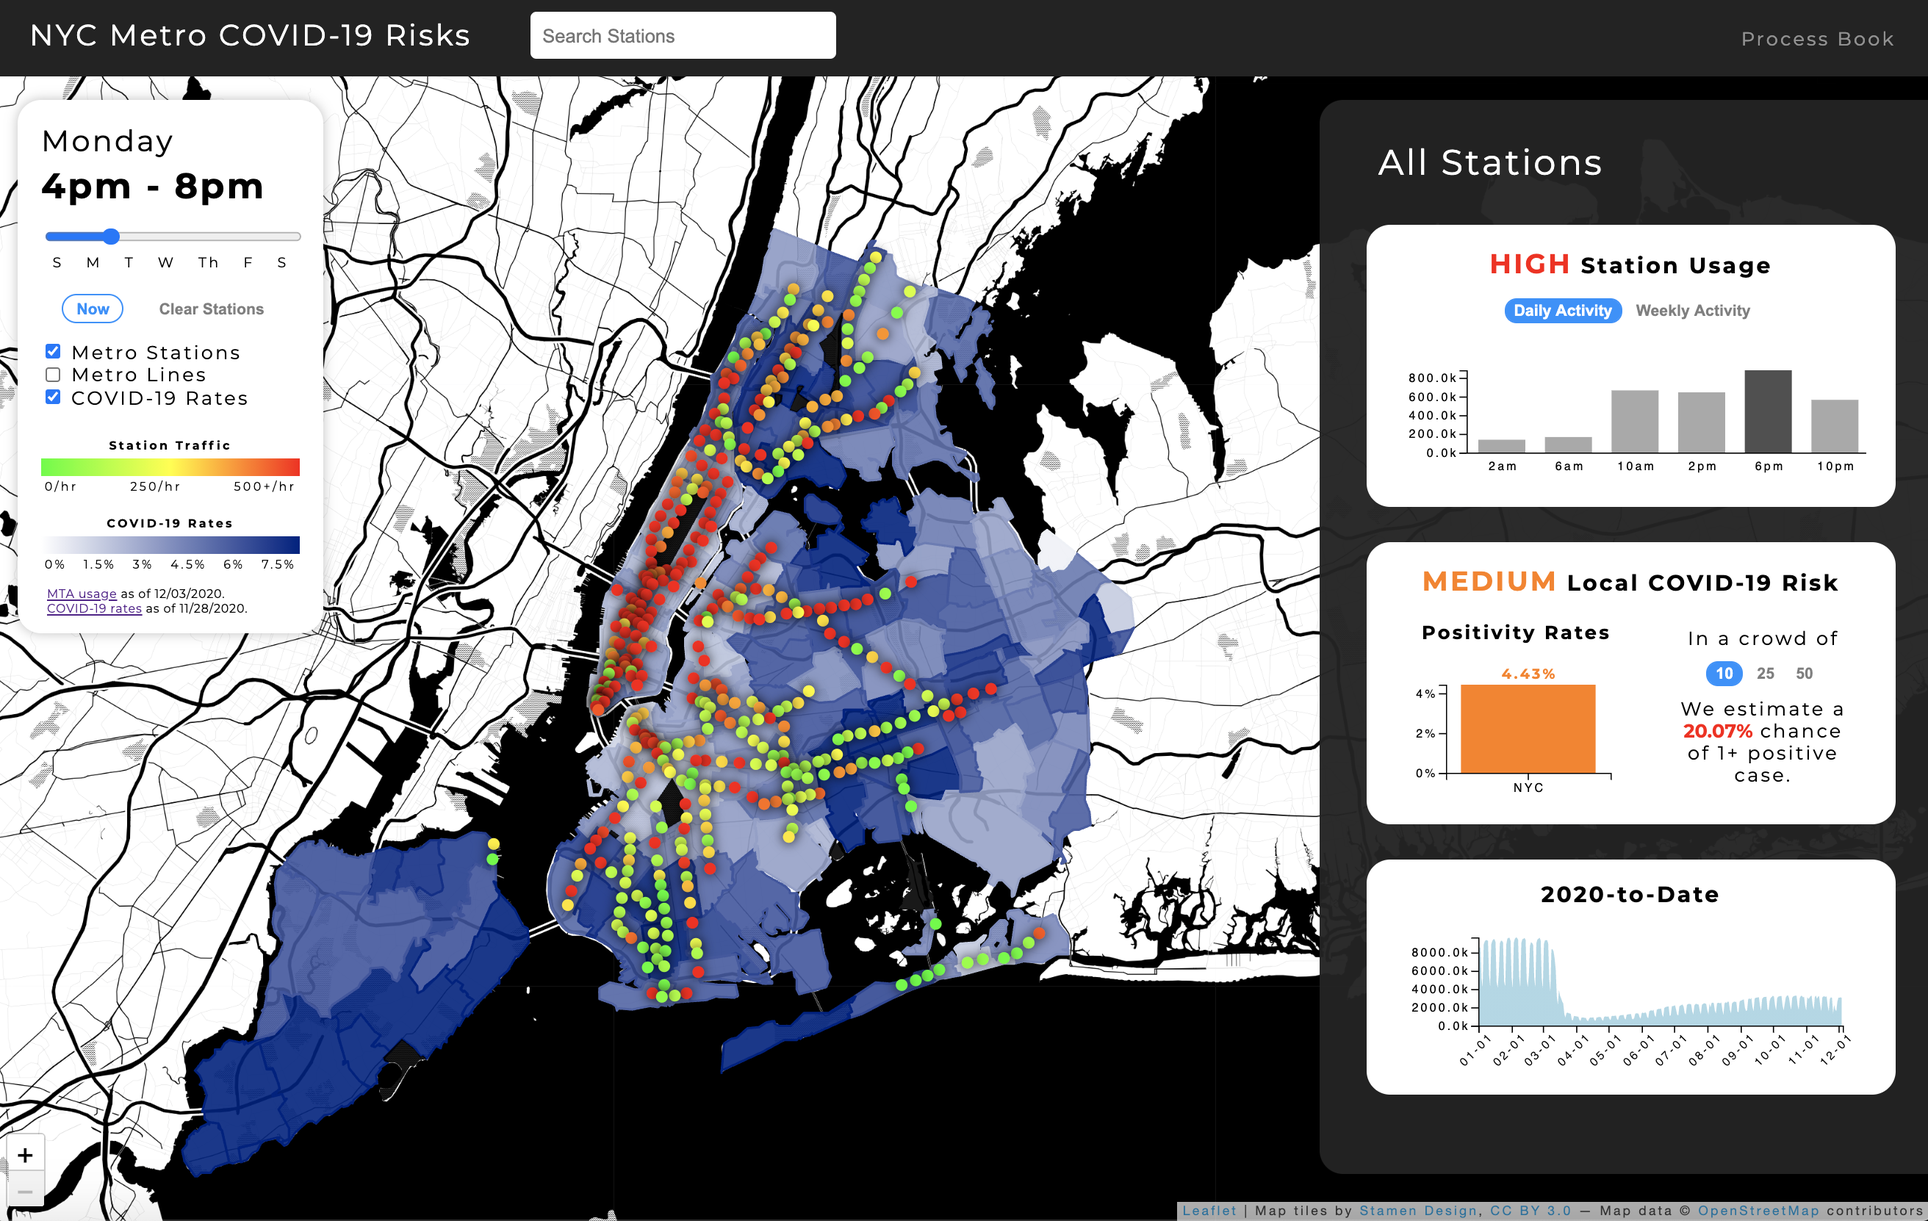
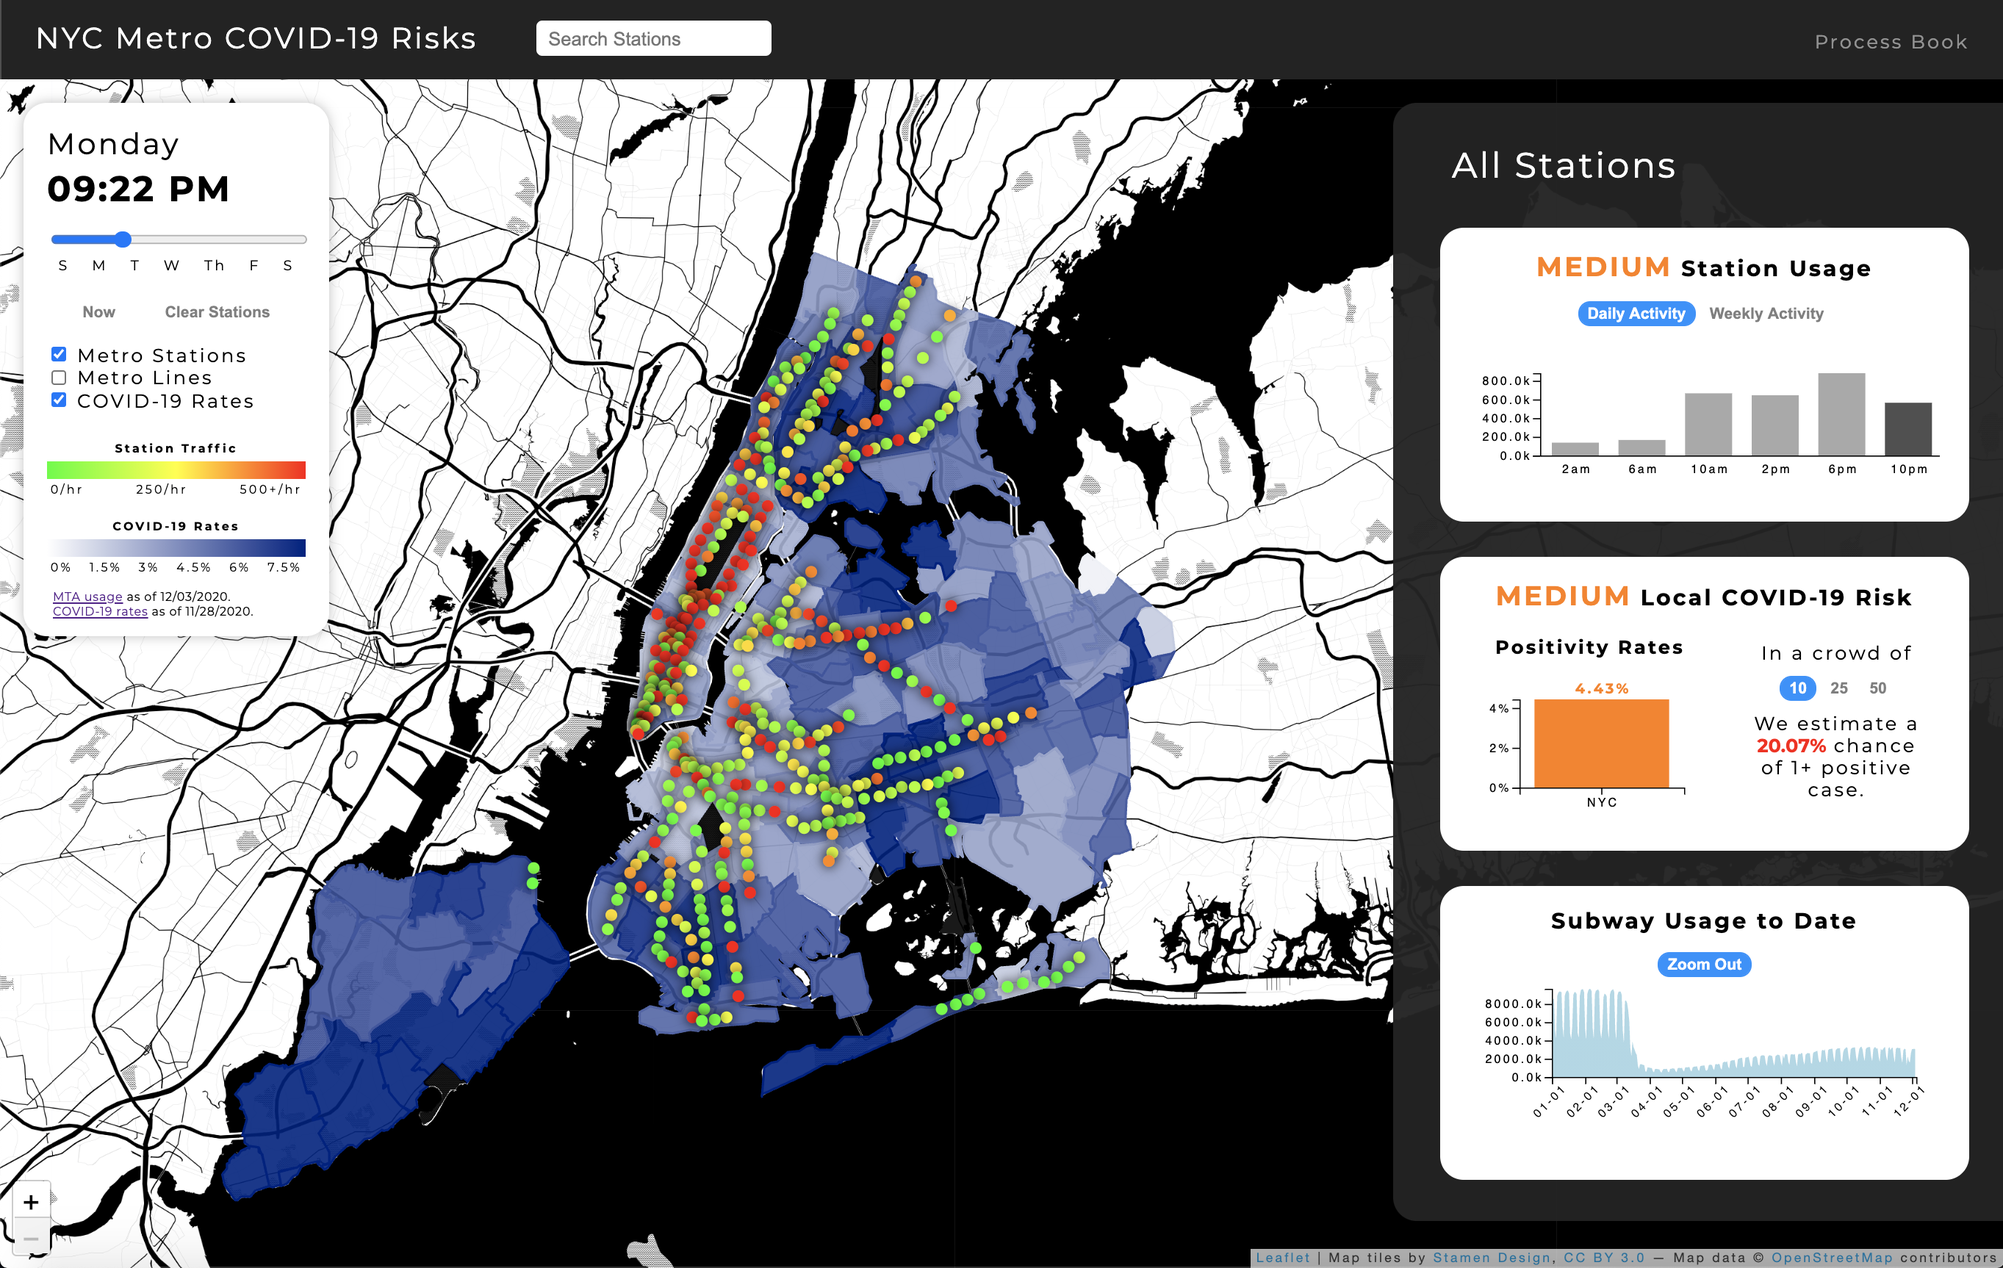
Milestone 2 process book rough draft

diff --git a/docs/processBook.html b/docs/processBook.html
@@ -14,19 +14,20 @@
     <h4>CSE 457A Final Project Process Book | Group 14</h4>
     <h1>LIVE NYC METRO USAGE & ASSOCIATED COVID RISKS.</h1>
     <hr>
+    <p><a href="https://washuvis.github.io/nyccovid/">Visualization</a></p>
+    <p><a href="https://github.com/washuvis/nyccovid">Github Repository</a></p>
     <p>Isaac Bock — <em>isaactbock@wustl.edu</em> - 466249</p>
     <p>Ege Çavuşoğlu — <em>egecavusoglu@wustl.edu</em> - 463866</p>
     <p>David Yang — <em>yang.david@wustl.edu</em> - 451666</p>
-    <a href="https://github.com/washuvis/nyccovid">Github Repository</a>
 
     <h2>OVERVIEW</h2><hr>
-    <p>We are interested in visualizing live (weekly) traffic data within the NYC metro system in order to promote safe and socially distant travel. Using turnstile entry and exit counts, we plan to display how busy each station tends to be throughout the day, and cross-reference this traffic with community-level COVID-19 data to estimate the risk of utilizing each NYC metro station.</p>
+    <p>We are interested in visualizing live (weekly) traffic data within the NYC metro system in order to promote safe and socially distant travel. Using turnstile entry and exit counts, we display how busy each station tends to be throughout the day, and cross-reference this traffic with community-level COVID-19 data to estimate the risk of utilizing each NYC metro station.</p>
     
     <h2>MOTIVATION & RELATED WORK</h2><hr>
     <p>Our project was inspired by a <a href="https://covid19risk.biosci.gatech.edu/">Georgia Tech visualization of crowd-based COVID-19 risks</a>. Given current infection rates, even small groups of people are likely to contain positive cases, with high variability based on crowd size and location.</p>
     <p>Although the Georgia Tech tool is effective at visualizing nation-wide trends, it lacks the specificity to shape local travel, which we wanted to expand upon and make more actionable for the general public.</p>
     <p>Following the in-class bike station Leaflet.js studio, we decided that mapping NYC metro stations with live usage data and COVID-19 risk calculations could be an effective way to encourage this safer essential travel.</p>
-    <p>To calculate these COVID-19 risk statistics, we plan to use the same <a href="https://www.nature.com/articles/s41562-020-01000-9/">simple statistical model</a> developed and used by Georgia Tech to analyze crowd risks:</p>
+    <p>To calculate these COVID-19 risk statistics, we plan use the same <a href="https://www.nature.com/articles/s41562-020-01000-9/">simple statistical model</a> as Georgia Tech to analyze crowd risks:</p>
     <ul>
         <li>"Let p denote the probability that a randomly selected individual in a focal population is infected. Hence, the probability that each of n individuals is not infected must be (1 − p)^n and by extension the probability that one (or more) individuals is infected must be 1 − (1 − p)^n; we define this as the event gathering risk."</li>
     </ul>
@@ -46,13 +47,12 @@
     <h3>SOURCES</h3>
     <ul>
         <li><a href="http://web.mta.info/developers/turnstile.html">NYC MTA Turnstile Entry & Exit Counts</a></li>
-        <li><a href="https://qri.cloud/nyc-transit-data/turnstile_daily_counts_2020">NYC MTA Turnstile Aggregate Entry & Exit Counts</a></li>
         <li><a href="https://github.com/nychealth/coronavirus-data/blob/master/trends/percentpositive-by-modzcta.csv">NYC COVID-19 Cases by Modified Zip Code Tabulation Area</a></li>
         <li><a href="https://data.cityofnewyork.us/Transportation/Subway-Lines/3qz8-muuu">NYC MTA Subway Lines</a></li>
         <li><a href="https://data.cityofnewyork.us/Health/Modified-Zip-Code-Tabulation-Areas-MODZCTA-/pri4-ifjk">NYC Modified Zip Code Tabulation Areas</a></li>
     </ul>
     <h3>CLEANING</h3>
-    <p>Raw data is processed within <em>nyccovid.py</em> to aggregate station values. The raw data is too large to include in our web app bundle, so we also filter out nonessential fields to minimize the file size. This cleaned data is saved within <em>metro.csv</em>. Our cleaning process draws from <a href="https://medium.com/qri-io/taming-the-mtas-unruly-turnstile-data-c945f5f96ba0">Taming the MTA’s Unruly Turnstile Data</a>, an article by Chris Whong that we used to generate our preliminary daily station count aggregates.</p>
+    <p>Raw data is processed within <em>dataProcessing.js</em> to aggregate daily and hourly station values. The raw data is too large to include in our web app bundle, so we also filter out nonessential fields to minimize the file size. This cleaned data is saved within <em>metroHourly.json</em> and <em>metroDaily.json</em>. Our cleaning process draws from <a href="https://medium.com/qri-io/taming-the-mtas-unruly-turnstile-data-c945f5f96ba0">Taming the MTA’s Unruly Turnstile Data</a>, an article by Chris Whong that describes the initial data fields and how they can be simplified.</p>
 
 
     <h2>EXPLORATORY DATA ANALYSIS</h2><hr>
@@ -62,7 +62,7 @@
         <li><a href="http://arettines.com/MTA-Graphic">Another visualization</a> shows weekly turnstile patterns over an unspecified period of time. Some stations are much busier than others, even within relatively small geographic regions. This verifies that we can recommend least-busy nearby stations to users in a feasible and actionable manner.</li>
         <li><a href="https://www1.nyc.gov/site/doh/covid/covid-19-data.page">This visualization</a> of COVID-19 rates throughout the city showed that some areas are much more affected than others, which indicates that avoiding local hotspot destinations might be an effective way to travel more safely.</li>
     </ul>
-    <p>Our visualization will expand upon these prior visualizations by aggregating historical data over multiple periods of time (day, week, and year-to-date), while also displaying the current, most-recent data on map markers. Furthermore, we will incorporate live NYC COVID-19 rates to make predictions about the social distancing risks of passing through each station. These design additions and modifications can also be seen within our designs below.</p>
+    <p>Our visualization expands upon these prior visualizations by aggregating historical data over multiple periods of time (day, week, and year-to-date), while also displaying the current, most-recent data on map markers. Furthermore, we incorporate up-to-date NYC COVID-19 rates to make predictions about the risks of passing through each station. These design expansions can also be seen within our designs below.</p>
 
     <h2>DESIGN EVOLUTION</h2><hr>
     <h3>INITIAL DESIGNS.</h3>
@@ -78,29 +78,60 @@
     <h3>MILESTONE 1 DESIGN.</h3>
     <img alt="Milestone 1 Design" src="images/Milestone1.png" width="750">
     <p>Our first milestone replicates our final preliminary design with a few slight modifications. First, it eliminates any direct visualization of economic activity in an effort to dissuade MTA closure of stations essential to the public. It also eliminates any direct statements of overall activity (such as “moderate activity”, which could be misleading to the public. Within our visualization, there is a large range of station activities, so this broad generalization could be dangerous. Our first milestone also adds a few interactive components (described below), and still requires additional completion and refinement of station activity charts for the next milestone.</p>
-    
+    <h3>MILESTONE 2 DESIGN.</h3>
+    <img alt="Milestone 2 Design" src="images/Milestone2.png" width="750">
+    <p>Our second milestone adds many new interactive and descriptive components to improve a user’s experience. We incorporated a loading screen that provides users with a quick instructional overview and map legends to interpret our color schemes. Furthermore, we added an interactive time slider to visualize data throughout a typical week and aid in travel planning. This slider filters the entire visualization and its data appropriately. We also added a second usage chart to display hourly data trends in addition to daily patterns. When selecting stations, users are also provided with nearby recommendations of safer alternative stations. Finally, a search bar allows users to more easily find and select stations of interest.</p>
+
     <h2>IMPLEMENTATION</h2><hr>
+    <h3>USER INSTRUCTIONS / LOADING SCREEN</h3>
+    <img alt="User Instructions / Loading Screen Implementation" src="images/InstructionsImplementation.png" class="small" width="500">
+    <p>While data loads, we present users with a brief visual breakdown of our visualization to show its capabilities and interactive components.</p>
+    <h3>TIME SLIDER</h3>
+    <img alt="Time Slider Implementation" src="images/TimeImplementation.png" class="narrow" width="500">
+    <p>The user can see the current local time in NYC, interact with a slider to visualize data throughout the week, and select options for manipulating the map visualization.</p>
     <h3>MAP</h3>
-    <img alt="Milestone 1 Design" src="images/Map-Interaction.png" class="small" width="500">
+    <img alt="Map Implementation" src="images/MapImplementation.png" class="small" width="500">
     <p>Colored markers indicate stations and their daily activity, while blue map backgrounds indicate local COVID-19 rates via saturation. The map is created with Leaflet.js to be mobile-responsive, and hovering over a station reveals more detailed information (name & usage details) within a popup. Furthermore, users can click stations to select them (which desaturates all unselected stations for contrast) and filter the data for other visualization components.</p>
-    <h3>TIME OVERLAY</h3>
-    <img alt="Milestone 1 Design" src="images/Time-Interaction.png" class="small" width="500">
-    <p>The user can see the current local time in NYC, and select options for manipulating the map visualization.</p>
-    <h3>LOCAL COVID-19 RISK</h3>
-    <img alt="Milestone 1 Design" src="images/COVID-Interaction.png" class="small" width="500">
-    <p>Users can quickly see whether areas of interest are COVID-19 hotspots, and compare their selected stations to the city-wide average as a reference point. Furthermore, to help make sense of these numbers, we provide a risk estimate for three different crowd sizes (5, 25, and 50 people) to show how quickly personal risk can grow in public settings.</p>
+    <h3>SEARCH</h3>
+    <img alt="Search Bar Implementation" src="images/SearchImplementation.png" class="small" width="500">
+    <p>Users can search for and select stations by name rather than geographic location.</p>
+    <h3>STATION RECOMMENDATIONS</h3>
+    <img alt="Station Recommendation Implementation" src="images/StationRecommendationsImplementation.png" class="small" width="500">
+    <p>We automatically recommend nearby stations (within 0.5 miles) that currently have less traffic than selected stations in an effort to promote socially-distant travel.</p>
     <h3>STATION USAGE</h3>
-    <img alt="Milestone 1 Design" src="images/Usage-Interaction.png" class="small" width="500">
-    <p>Users can see station activity over seven days to help make informed decisions about when to travel, and a year-to-date visualization shows a bigger picture view of usage during the pandemic. As we continue to present more data, this could reveal different waves of infection and lockdown. Although all of our raw data structures are in place, we have currently only cleaned a portion of it (~3.5 months’ worth), so these visualizations are not currently in sync with the Time Overlay clock. This will be accomplished for our next milestone.</p>
-
+    <img alt="Daily Station Usage Implementation" src="images/DailyUsageImplementation.png" class="small" width="500">
+    <img alt="Weekly Station Usage Implementation" src="images/WeeklyUsageImplementation.png" class="small" width="500">
+    <p>Users can see station activity throughout both a typical day and week to help make informed decisions about when to travel.</p>
+    <h3>LOCAL COVID-19 RISK</h3>
+    <img alt="Local COVID-19 Risk Implementation" src="images/COVIDImplementation.png" class="small" width="500">
+    <p>Users can quickly see whether areas of interest are COVID-19 hotspots, and compare their selected stations to the city-wide average as a reference point. Furthermore, to help make sense of these numbers, we provide a risk estimate for three different crowd sizes (5, 25, and 50 people) to show how quickly personal risk can grow in public settings.</p>
+    <h3>USAGE-TO-DATE</h3>
+    <img alt="Usage-to-Date Implementation" src="images/YearUsageImplementation.png" class="small" width="500">
+    <p>A usage-to-date visualization shows a bigger picture view of transit during the pandemic. As our visualization continues to update with recent data, this could reveal different waves of infection and lockdown.</p>
+   
     <h2>EVALUATION</h2><hr>
-    <p>Our visualization allows users to quickly view the status of metro transit and COVID-19 for NYC as a whole, and then refine the data to best match and inform their own personal travel plans. By Milestone 1, users can answer four of our five questions. To address our last remaining question (<em>Would it be safer if I traveled at a different time or day of the week?</em> ), we need to continue refining our station usage visualization by completing data cleaning and synchronizing the visualization to the current local NYC time.</p>
-    <p>To accomplish this, as well as add a few new useful improvements to our visualization, our next steps include:</p>
+    <p>Our visualization allows users to quickly view the status of metro transit and COVID-19 for NYC as a whole, and then refine the data to best match and inform their own personal travel plans. As such, users can answer all of the original questions we posed:</p>
     <ul>
-        <li>Once all data is cleaned, visualizing hourly traffic patterns, and synchronizing our visualization components to a time slider, which defaults to the current local EST time.</li>
-        <li>Adding a station recommendation component—if users select a busy station, we can provide alternative nearby stations with lower traffic or local COVID-19 rates.</li>
-        <li>Adding instructions, legends, and informative details to our visualization to make it accessible for all visitors and use cases.</li>
+        <li><strong>How busy is my station right now?</strong></li>
+        <!-- <ul class="checkmark">
+            <li></li>
+        </ul> -->
+        <li><strong>Would it be safer if I traveled at a different time or day of the week?</strong></li>
+        <!-- <ul class="checkmark">
+            <li></li>
+        </ul> -->
+        <li><strong>What are the current COVID-19 rates in the area?</strong></li>
+        <!-- <ul class="checkmark">
+            <li></li>
+        </ul> -->
+        <li><strong>How does this infection rate translate to my own personal risk of exposure in a group?</strong></li>
+        <!-- <ul class="checkmark">
+            <li></li>
+        </ul> -->
+        <li><strong>If I’m traveling through multiple stations, what is my average risk throughout the entire trip?</strong></li>
+        <!-- <ul class="checkmark">
+            <li></li>
+        </ul> -->
     </ul>
-
 </body>
 </html>

diff --git a/docs/js/dailyUsageChart.js b/docs/js/dailyUsageChart.js
@@ -42,12 +42,18 @@ DailyUsageChart.prototype.initVis = function() {
        	.append("g")
 		.attr("transform", "translate(" + vis.margin.left + "," + vis.margin.top + ")")
 	
-	// Initialize Scales and Axex
+	// Initialize Scales and Axes
 	vis.heightScale = d3.scaleLinear().range([vis.height, 0]);
 	vis.xScale = d3.scaleLinear().range([0, vis.width]);
 
 	vis.xAxis = d3.axisBottom().tickFormat(d => vis.conciseHourBlocks[d]).ticks(6).tickSize(0);
-	vis.yAxis = d3.axisLeft().ticks(4).tickFormat(d3.formatPrefix(".1", 1e3));
+    vis.yAxis = d3.axisLeft().ticks(4).tickFormat(d3.formatPrefix(".1", 1e3));
+    
+    vis.xAxisGroup = vis.svg.append("g")
+		.attr("class", "x-axis axis")
+		.attr("transform", "translate(0, 70)");
+	vis.yAxisGroup = vis.svg.append("g")
+		.attr("class", "y-axis axis");
 
 	//Tool tip
 	vis.tip = d3.tip().attr('class', 'd3-tip')
@@ -162,7 +168,7 @@ DailyUsageChart.prototype.updateVis = function() {
 		}
     })
     .transition()
-	.duration(500)
+	.duration(750)
 	.attr("height", d => vis.height - vis.heightScale(d))
 	.attr("y", d => {
 		return vis.heightScale(d);
@@ -171,22 +177,17 @@ DailyUsageChart.prototype.updateVis = function() {
 	//exit
 	selection.exit().remove();
 
-	//TODO draw axis and labels
-	vis.svg.selectAll(".y-axis").remove();
-	vis.svg.selectAll(".x-axis").remove();
-
-	vis.svg.append("g")
-	.attr("class", "axis y-axis")
-	.attr("transform", "translate(0, 0)")
-	.call(vis.yAxis)
-
-	vis.svg.append("g")
-	.attr("class", "axis x-axis")
-	.attr("transform", "translate(0, 70)")
-	.call(vis.xAxis)
-
 	vis.svg.selectAll(".x-axis text")
-	.attr("transform", "translate(30, 5)")
+        .attr("transform", "translate(30, 5)")
+    
+	vis.svg.select(".y-axis")
+		.transition()
+		.duration(750)
+		.call(vis.yAxis);
+	vis.svg.select(".x-axis")
+		.transition()
+		.duration(750)
+        .call(vis.xAxis);
 }
 
 DailyUsageChart.prototype.changeSelectedStations = function(stations){

diff --git a/docs/js/weeklyUsageChart.js b/docs/js/weeklyUsageChart.js
@@ -35,12 +35,18 @@ WeeklyUsageChart.prototype.initVis = function() {
        	.append("g")
 		.attr("transform", "translate(" + vis.margin.left + "," + vis.margin.top + ")")
 	
-	// Initialize Scales and Axex
+	// Initialize Scales and Axes
 	vis.heightScale = d3.scaleLinear().range([vis.height, 0]);
 	vis.xScale = d3.scaleLinear().range([0, vis.width]);
 
 	vis.xAxis = d3.axisBottom().tickFormat(d => vis.daysOfWeek[d]).ticks(7).tickSize(0);
 	vis.yAxis = d3.axisLeft().ticks(4).tickFormat(d3.formatPrefix(".1", 1e3));
+
+	vis.xAxisGroup = vis.svg.append("g")
+		.attr("class", "x-axis axis")
+		.attr("transform", "translate(0, 70)");
+	vis.yAxisGroup = vis.svg.append("g")
+		.attr("class", "y-axis axis");
 
 	//Tool tip
 	vis.tip = d3.tip().attr('class', 'd3-tip')
@@ -136,7 +142,7 @@ WeeklyUsageChart.prototype.updateVis = function() {
 		}
 	})
 	.transition()
-	.duration(500)
+	.duration(750)
 	.attr("height", d => vis.height - vis.heightScale(d))
 	.attr("y", d => {
 		return vis.heightScale(d);
@@ -145,22 +151,17 @@ WeeklyUsageChart.prototype.updateVis = function() {
 	//exit
 	selection.exit().remove();
 
-	//draw axis and labels
-	vis.svg.selectAll(".y-axis").remove();
-	vis.svg.selectAll(".x-axis").remove();
-
-	vis.svg.append("g")
-	.attr("class", "axis y-axis")
-	.attr("transform", "translate(0, 0)")
-	.call(vis.yAxis)
-
-	vis.svg.append("g")
-	.attr("class", "axis x-axis")
-	.attr("transform", "translate(0, 70)")
-	.call(vis.xAxis)
-
 	vis.svg.selectAll(".x-axis text")
-	.attr("transform", "translate(25, 5)")
+		.attr("transform", "translate(25, 5)")
+
+	vis.svg.select(".y-axis")
+		.transition()
+		.duration(750)
+		.call(vis.yAxis);
+	vis.svg.select(".x-axis")
+		.transition()
+		.duration(750)
+        .call(vis.xAxis);
 }
 
 WeeklyUsageChart.prototype.changeSelectedStations = function(stations){

diff --git a/docs/css/processBookStyle.css b/docs/css/processBookStyle.css
@@ -37,3 +37,19 @@ img.small {
     width: 50%;
     height: auto;
 }
+img.narrow {
+    width: 25%;
+    height: auto;
+}
+.checkmark {
+	position: relative;
+	list-style: none;
+	margin-left: 0;
+	padding-left: 2.5em;
+}
+.checkmark li:before {
+	content: "✔";
+	position: absolute;
+    left: 1.0em;
+    bottom: 5;
+}
